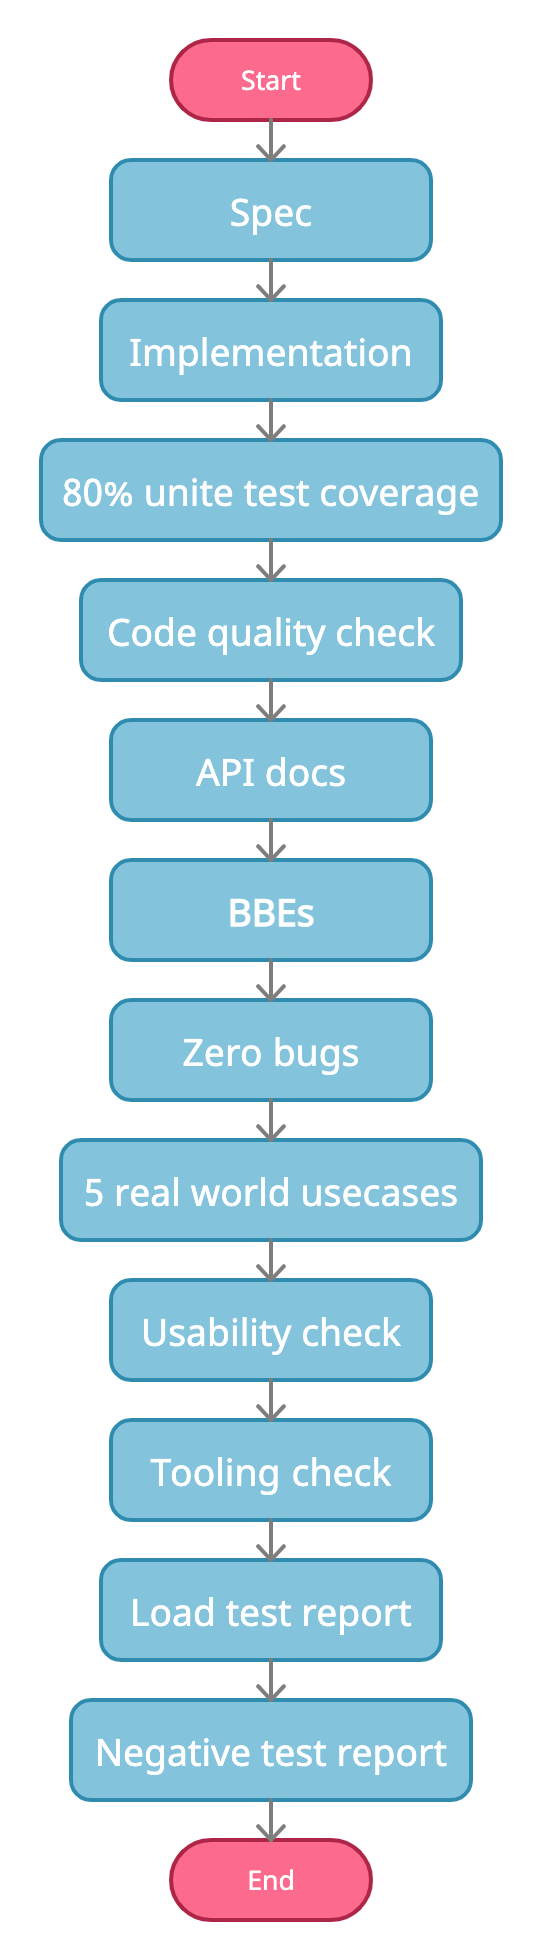
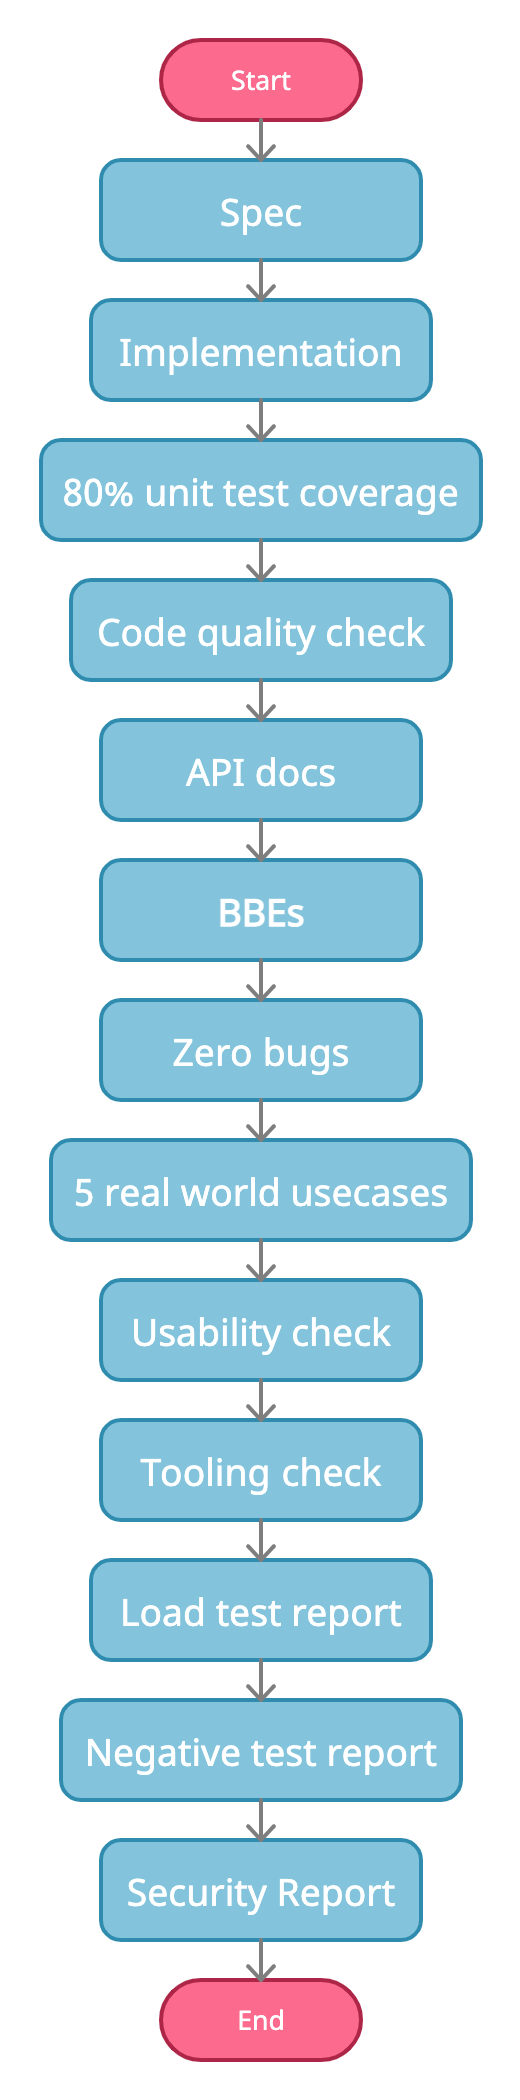
Add security report step

diff --git a/docs/library-development-process.md b/docs/library-development-process.md
@@ -94,3 +94,9 @@ The results should be recorded in an issue in the form of a report. I think we c
 ## Negative Test Report
 
 This is to ensure the robustness of the library. An example for this can be found here. The issue must be tagged with the relevant milestone. 
+
+## Security Report
+
+Each library must pass the security check. Libraries should not have any security vulnerabilities directly or indirectly (via third party libraries). 
+
+The results should be recorded in an issue in the form of a report. The issue must be tagged with the relevant milestone.
